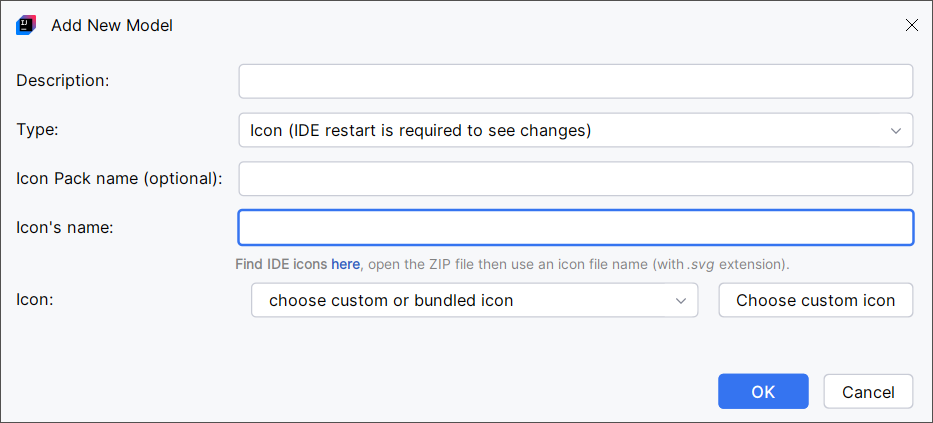
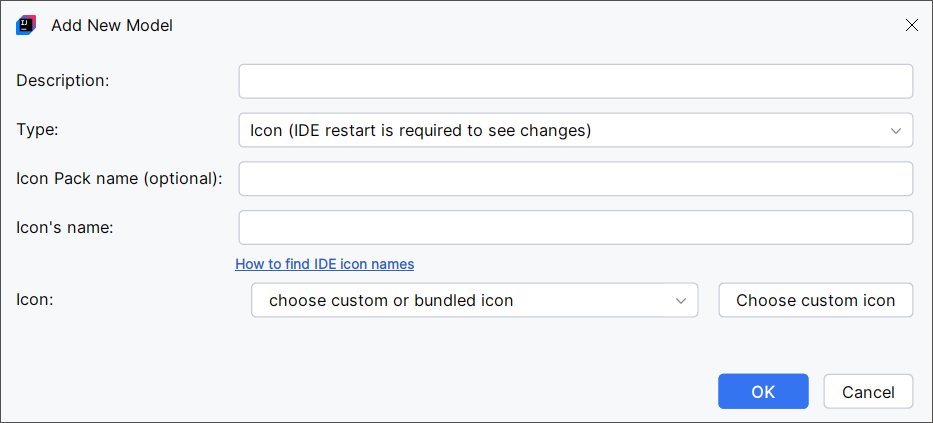
v1.3

Changed region(s): [[0.2487, 0.4917, 0.9946, 0.5839], [0.2487, 0.6147, 0.8392, 0.6454]]

diff --git a/manual/topics/extra-icons/Extra-Icons-User-Icons.md b/manual/topics/extra-icons/Extra-Icons-User-Icons.md
@@ -23,25 +23,25 @@ Click the "+" symbol and a new dialog will help you.
 5. Conditions: click the "+" symbol to add [conditions](#conditions) to the icon override. Per example, you can say you will override all file icons with a name that ends with `.py`.
 6. Test your model: type the name or the path of a file to see if your model affects it. This is useful when defining conditions based on complex regular expression. This test is optional.
 
-> **You should be able to override every icon in the IDE**. Meanwhile, some IDEs may be affected by bugs which prevent from overriding a few icons. In this case it is recommended to open an issue or email me, and I will do the necessary to find a workaround or [open an issue](https://github.com/jonathanlermitage/intellij-extra-icons-plugin/issues) on the JetBrains side.    
+> **You should be able to override every icon in the IDE**. Meanwhile, some IDEs may be affected by bugs which prevent from overriding a few icons. In this case it is recommended to open an issue or email me, and I will do the necessary to find a workaround or [open an issue](https://github.com/jonathanlermitage/intellij-extra-icons-plugin/issues) on the JetBrains side.
 > Example of an IDE issue: the Python icon wasn't overridable in PyCharm. This problem has been resolved by JetBrains in the next PyCharm release.
 
-> **You can also override icons from any third-party plugin**, but Extra Icons has to be updated first. A plugin can override the icons from another plugin, but it has to declare some priority flags to say *"Plugin A icons are more important than Plugin B icons"*.    
+> **You can also override icons from any third-party plugin**, but Extra Icons has to be updated first. A plugin can override the icons from another plugin, but it has to declare some priority flags to say *"Plugin A icons are more important than Plugin B icons"*.
 > To proceed, give me the name of the third-party plugin. I will update Extra Icons accordingly, and I will publish a new release. After that, you should be able to override icons from the given third-party plugin.
 
 ### File Icons
 
-This is a file, identified by its name (per example, `foo.py`) or, generally, its full path (per example, `/home/me/prj/foo.py`).  
+This is a file, identified by its name (per example, `foo.py`) or, generally, its full path (per example, `/home/me/prj/foo.py`).
 The "\" characters are replaced by "/" even on Windows. Names and paths are lowercased.
 
 ### Directory Icons
 
-This is a directory, identified by its name (per example, `dir`) or, generally, its full path (per example, `/home/me/prj/dir`).  
+This is a directory, identified by its name (per example, `dir`) or, generally, its full path (per example, `/home/me/prj/dir`).
 The "\" characters are replaced by "/" even on Windows. Names and paths are lowercased.
 
 ### IDE Icons
 
-This is an icon of the IDE, like an icon in a menu, a toolbar, a tool window, etc. This can also be the icon for a file type (per example, for Java classes).  
+This is an icon of the IDE, like an icon in a menu, a toolbar, a tool window, etc. This can also be the icon for a file type (per example, for Java classes).
 
 In this situation, the Model dialog is a bit different, as it will ask for the IDE icon path (the `Icon's name` field), and there won't be a list of conditions:
 
@@ -49,17 +49,22 @@ In this situation, the Model dialog is a bit different, as it will ask for the I
 
 An icon is identified by its name (per example, `GrazieCloudProcessing.svg`) or its internal path (per example, `/icons/stroke/GrazieCloudProcessing.svg`).
 
-You can find IDE icon names or paths by enabling the Internal Mode of your IDE.    
-Go to `Help > Edit Custom Properties...` then add `idea.is.internal=true`. Restart your IDE. You can now use the UI Inspector with this combination: `Ctrl` + `Alt + clicking on an element in the IDE. This will open a dialog showing information about the element. Click `icon` to get the icon path.
+#### Find IDE Icon Names
+
+You can find IDE icon names or paths by enabling the Internal Mode of your IDE:
+
+- Go to `Help > Edit Custom Properties...` then add `idea.is.internal=true`.
+- Restart your IDE.
+- You can now use the UI Inspector with this combination: `Ctrl` + `Alt` + clicking on an element in the IDE. This will open a dialog showing information about the element. Click `icon` to get the icon path.
 
 In this example, I clicked on the VCS icon of the main toolbar.
 
 ![](../../images/extra-icons/ui-inspector.png){ width="700" }
 
-Here, the icon path is `/expui/general/vcs.svg`.  
-If you override only `vcs.svg`, you will actually override all the icons with a path that ends with `vcs.svg`. 
+Here, the icon path is `/expui/general/vcs.svg`.
+If you override only `vcs.svg`, you will actually override all the icons with a path that ends with `vcs.svg`.
 
-> IDE icons overrides work after having restarted the IDE.  
+> IDE icons overrides work after having restarted the IDE.
 > The other icon overrides (File and Directory icons) are applied immediately.
 {style="warning"}
 
@@ -67,22 +72,22 @@ If you override only `vcs.svg`, you will actually override all the icons with a 
 
 When defining a model for a [File](#file-icons) or a [Directory](#directory-icons), you will define one or many conditions under which the icon override will apply.
 
-When defining multiple conditions in the table, the icon override will apply if at least one condition is matched.  
+When defining multiple conditions in the table, the icon override will apply if at least one condition is matched.
 
-Inside a condition (i.e., in the `Add Condition dialog`), you will define one or many rules.  
+Inside a condition (i.e., in the `Add Condition dialog`), you will define one or many rules.
 When defining multiple rules, the condition will apply if all the rules are verified.
 
 ![](../../images/extra-icons/model-condition.png){ width="450" }
 
 1. the file or folder path verifies the given regular expression.
 2. the file or folder has the given folder name as parent.
-3. the file or folder name starts with or is equal to the given string. You can also indicate the file or folder path shouldn't contain a "." character. 
+3. the file or folder name starts with or is equal to the given string. You can also indicate the file or folder path shouldn't contain a "." character.
 4. the filename ends with the given string. This rule can be made optional (enable `May end with` instead of `End with`).
 5. the project or the module has the given facets. You can find the active facets in the Project Structure menu of the IDE.
 
 > Most of the time, the conditions are verified against the file and folder full paths. Meanwhile, in certain circumstances, like with in-memory files, the conditions may be verified against the file or folder name only.
 {style="warning"}
 
-## Search for existing JetBrains icons
+## Search for Existing JetBrains Icons
 
 Visit [IntelliJ Platform Icons](https://intellij-icons.jetbrains.design/) and find most of the icons used by JetBrains IDEs. Click an icon, then download it as a zip file. This file will contain the icon as a PNG or SVG file, with an optional second file for dark themes (its name ends with `_dark.svg`).

diff --git a/manual/topics/extra-icons/Extra-Icons-Advanced-Configuration.md b/manual/topics/extra-icons/Extra-Icons-Advanced-Configuration.md
@@ -3,3 +3,10 @@
 # Advanced Configuration
 
 ![](../../images/extra-icons/advanced-configuration.png){ width="920" }
+
+1. Change the custom icons (Plugin Icons and User Icons) scale factor if they're too small or too big. Per example, if icons are too small, and if the operating system's scale factor is set to 125%, you may want to set the `Additional UI Scale Factor` to 1.25 (the `Detect` button can try to detect the best value). In most situations, the IDE should detect the operating system's scale factor and adapt the size of icons, so you shouldn't have to touch this setting.
+2. Refresh all displayed custom icons. Use it if you still see original icons. This is an old feature that shouldn't be needed anymore.
+3. Define a regular expression if you want to prevent Extra Icons from overriding the icons of some files or folders.
+4. Several custom icons exist for both the [Classic UI](https://plugins.jetbrains.com/plugin/24468-classic-ui) and the New UI. They're selected automatically by detecting the UI type. You can use this setting to force the selection of the Classic UI or the New UI variants of custom icons. This applies to the custom icons only, not to the original icons.
+5. Some hints and notifications are displayed at once. Use this button if you want to see them again.
+6. Extra Icons needs to detect specific files to enable some custom icons. Per example, icons for Git sub-module folders, for Docker files, or for Helm files need to find some specific files, just to know if it should enable these icons. IDE's filename index is used to find these files quickly. Using the IDE filename index can lead to unexpected "Slow Operations in EDT" warnings (these warnings can be annoying, but they will break nothing). This issue has been fixed for a long time, so you can keep this checkbox selected. Unselect it if needed. If unselected, Extra Icons will try to find these specific files manually in your project directory. In this situation, Extra Icons may be less accurate: it may not show custom icons for Git sub-module folders, for Docker files, etc.

diff --git a/manual/topics/Extra-IDE-Tweaks-Getting-Started.md b/manual/topics/Extra-IDE-Tweaks-Getting-Started.md
@@ -1,6 +1,6 @@
 <show-structure depth="3"/>
 
-# Getting-Started
+# Getting Started
 
 > WORK IN PROGRESS
 {style="warning"}
